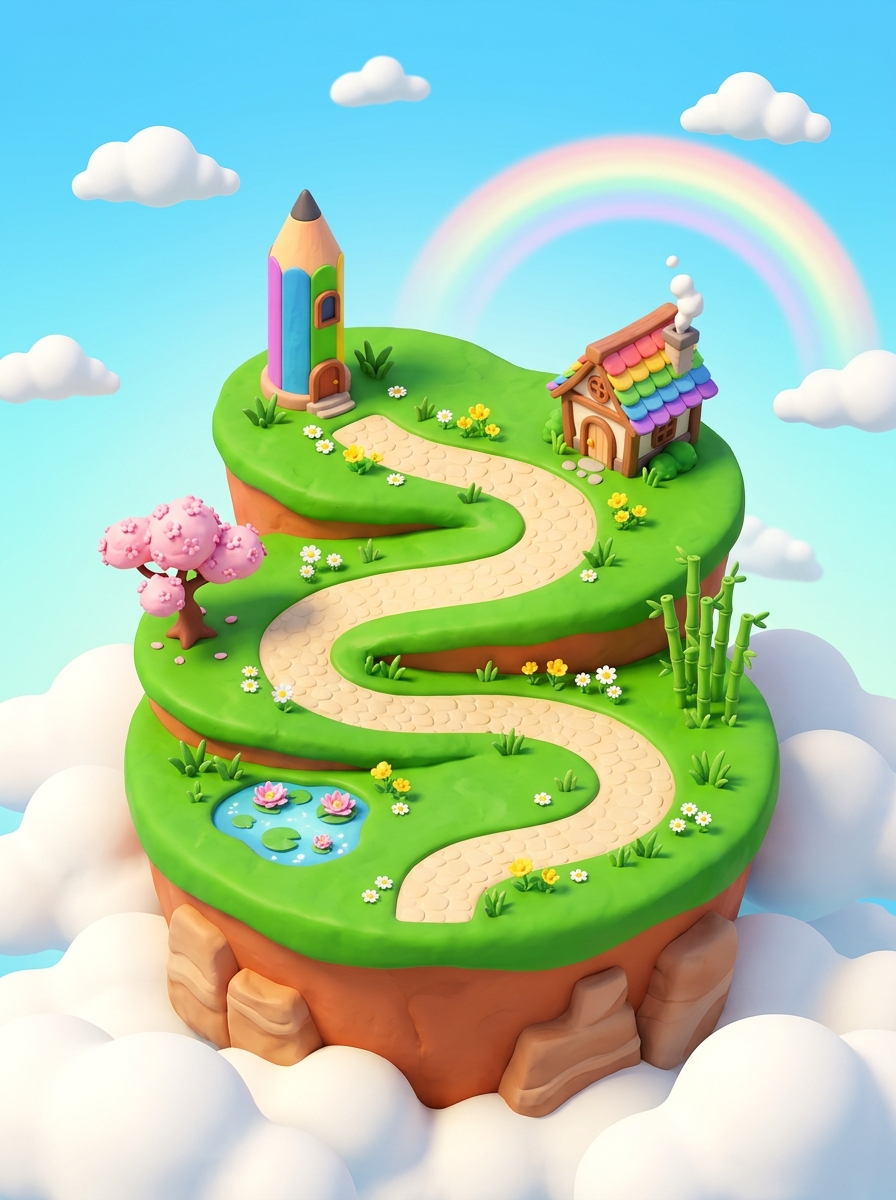
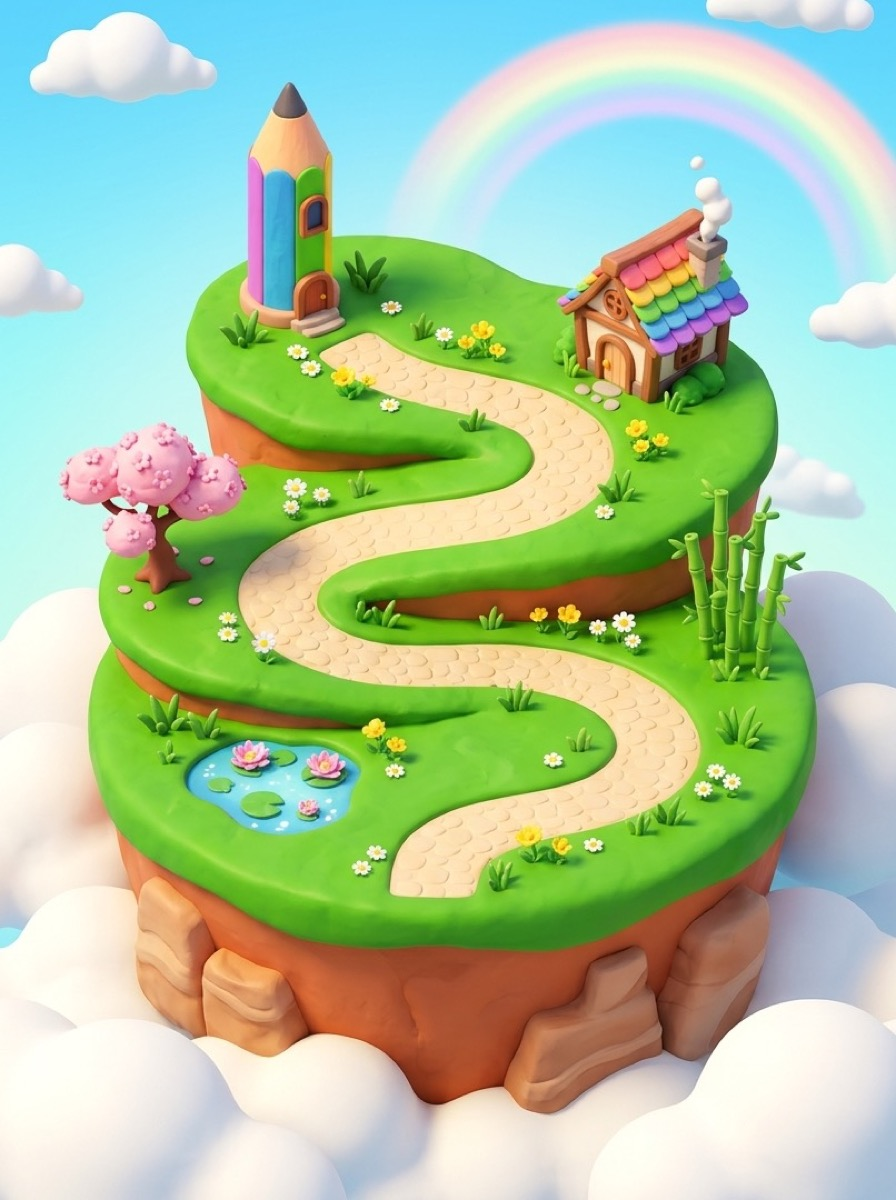
v20: curve SVG trail along cobblestone road, fix Math node overlap, balance Vietnamese island framing

diff --git a/js/app.js b/js/app.js
@@ -1022,16 +1022,28 @@
 
   var MAP_POINTS_BY_SUBJ = {
     math: [
-      { x: 58, y: 31 }, { x: 25, y: 38 }, { x: 46, y: 45 },
-      { x: 74, y: 49 }, { x: 52, y: 56 }, { x: 27, y: 63 }, { x: 51, y: 74 }
+      { x: 58, y: 31 },
+      { x: 24, y: 38, cx: 34, cy: 29 },
+      { x: 35, y: 45, cx: 21, cy: 43 },
+      { x: 74, y: 47, cx: 56, cy: 43 },
+      { x: 64, y: 58, cx: 79, cy: 54 },
+      { x: 27, y: 63, cx: 44, cy: 59 },
+      { x: 52, y: 74, cx: 28, cy: 71 }
     ],
     viet: [
-      { x: 44, y: 36 }, { x: 64, y: 44 }, { x: 35, y: 53 },
-      { x: 52, y: 62 }, { x: 64, y: 70 }, { x: 49, y: 78 }
+      { x: 43, y: 30 },
+      { x: 65, y: 39, cx: 64, cy: 33 },
+      { x: 32, y: 49, cx: 48, cy: 43 },
+      { x: 51, y: 58, cx: 32, cy: 55 },
+      { x: 66, y: 67, cx: 66, cy: 61 },
+      { x: 50, y: 77, cx: 61, cy: 74 }
     ],
     eng: [
-      { x: 46, y: 26 }, { x: 33, y: 36 }, { x: 67, y: 44 },
-      { x: 28, y: 55 }, { x: 58, y: 69 }
+      { x: 48, y: 25 },
+      { x: 32, y: 36, cx: 30, cy: 29 },
+      { x: 68, y: 44, cx: 66, cy: 37 },
+      { x: 27, y: 55, cx: 26, cy: 47 },
+      { x: 60, y: 69, cx: 68, cy: 60 }
     ]
   };
 
@@ -1083,8 +1095,13 @@
       for (var p = 1; p < pts.length; p++) {
         var x0 = pts[p - 1].x * 3, y0 = pts[p - 1].y * 4;
         var x1 = pts[p].x * 3, y1 = pts[p].y * 4;
-        var midY = Math.round((y0 + y1) / 2);
-        var seg = " C " + x0 + " " + midY + ", " + x1 + " " + midY + ", " + x1 + " " + y1;
+        var seg;
+        if (pts[p].cx != null && pts[p].cy != null) {
+          seg = " Q " + (pts[p].cx * 3) + " " + (pts[p].cy * 4) + ", " + x1 + " " + y1;
+        } else {
+          var midY = Math.round((y0 + y1) / 2);
+          seg = " C " + x0 + " " + midY + ", " + x1 + " " + midY + ", " + x1 + " " + y1;
+        }
         dAll += seg;
         if (p <= highestUnlocked) dDone += seg;
       }
@@ -2264,7 +2281,7 @@
     html += '<div class="guide-item"><span class="gi-ic">💡</span><div><b>Mẹo cho iPad & iPhone cũ:</b> Vào <b>Cài đặt máy ➜ Trợ năng ➜ Nội dung được đọc ➜ Giọng nói ➜ Tiếng Việt</b> tải giọng Linh về máy; bấm Chia sẻ Safari ➜ <b>Thêm vào MH chính</b> để chơi toàn màn hình.</div></div>';
     html += '</div>';
 
-    html += '<div class="guide-item" style="margin-top:8px;"><span class="gi-ic">🏷</span><div><b>Phiên bản:</b> v19 (13/11/2026) · <b>SGK:</b> Kết Nối Tri Thức 2026 — Đồng bộ 3 bản đồ đảo bay 3D phong cách Pixar giống màn hình chính.</div></div>';
+    html += '<div class="guide-item" style="margin-top:8px;"><span class="gi-ic">🏷</span><div><b>Phiên bản:</b> v20 (13/11/2026) · <b>SGK:</b> Kết Nối Tri Thức 2026 — Tinh chỉnh đường nối bo theo đường lát đá, hết đè chặng và cân đối đảo Tiếng Việt.</div></div>';
 
     $("infoBody").innerHTML = html;
 

diff --git a/index.html b/index.html
@@ -11,7 +11,7 @@
   <link rel="apple-touch-icon" href="assets/mascot.jpg">
   <link rel="preconnect" href="https://fonts.googleapis.com">
   <link href="https://fonts.googleapis.com/css2?family=Baloo+2:wght@500;600;700;800&display=swap" rel="stylesheet">
-  <link rel="stylesheet" href="css/style.css?v=19">
+  <link rel="stylesheet" href="css/style.css?v=20">
 </head>
 <body>
 
@@ -235,9 +235,9 @@
   <!-- Firebase SDK v8 (Tương thích 100% cú pháp ES5 cho iPadOS 12.5.8 đến iOS 18) -->
   <script src="https://www.gstatic.com/firebasejs/8.10.1/firebase-app.js"></script>
   <script src="https://www.gstatic.com/firebasejs/8.10.1/firebase-database.js"></script>
-  <script src="js/firebase-config.js?v=19"></script>
-  <script src="js/data.js?v=19"></script>
-  <script src="js/audio-manifest.js?v=19"></script>
-  <script src="js/app.js?v=19"></script>
+  <script src="js/firebase-config.js?v=20"></script>
+  <script src="js/data.js?v=20"></script>
+  <script src="js/audio-manifest.js?v=20"></script>
+  <script src="js/app.js?v=20"></script>
 </body>
 </html>
